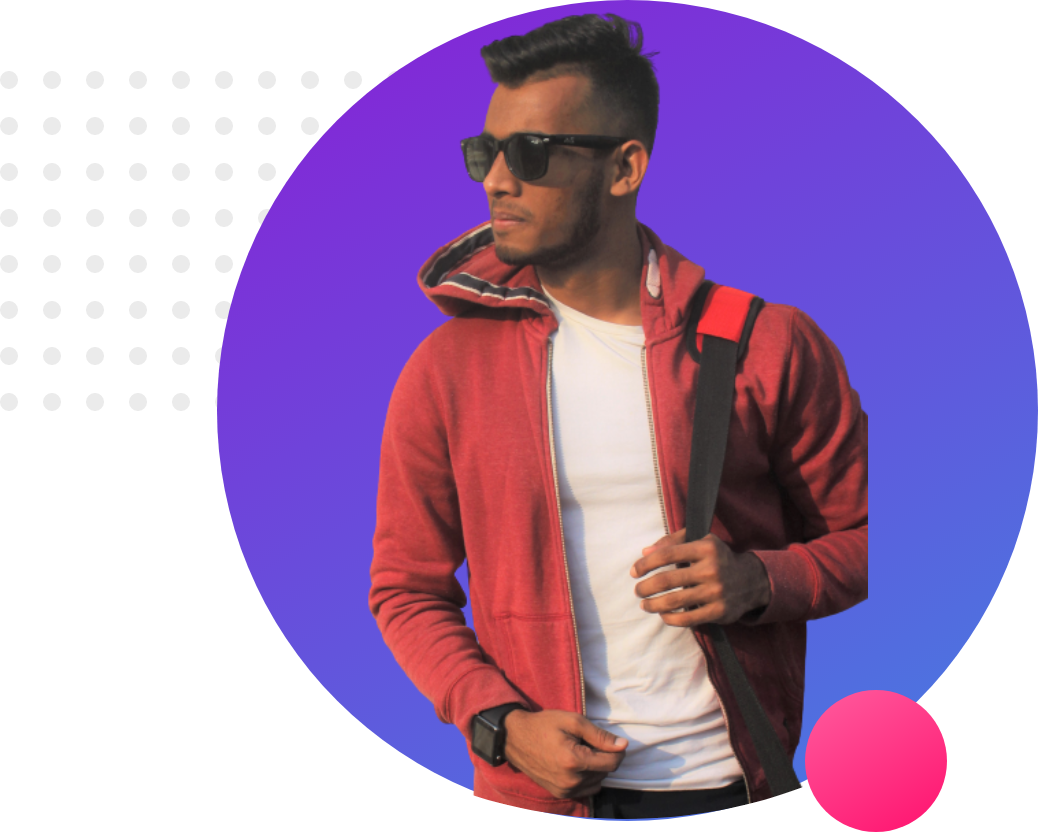
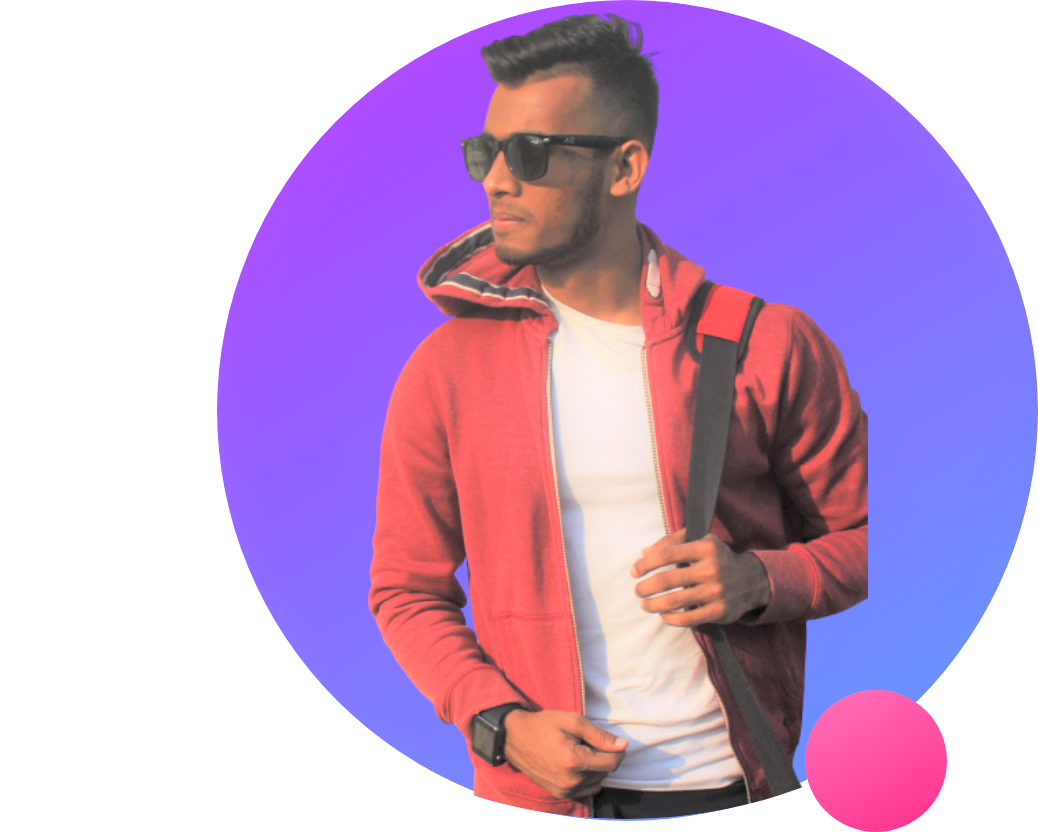
img update

diff --git a/index.html b/index.html
@@ -19,7 +19,7 @@
             <a class="button" target="_blank" href="https://www.linkedin.com/in/shakil-ahmed-487505154/">HIRE ME</a>
         </div>
         <div class="half-width">
-            <img src="img/shakil.png" alt="">
+            <img src="img/my-bg.jpg" alt="">
         </div>
       
     </section>
